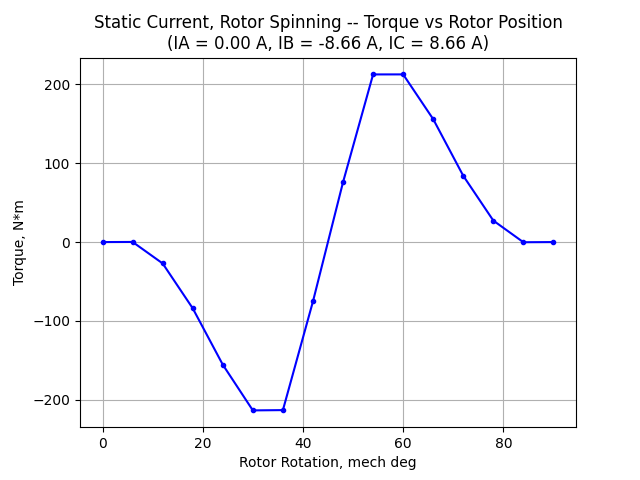
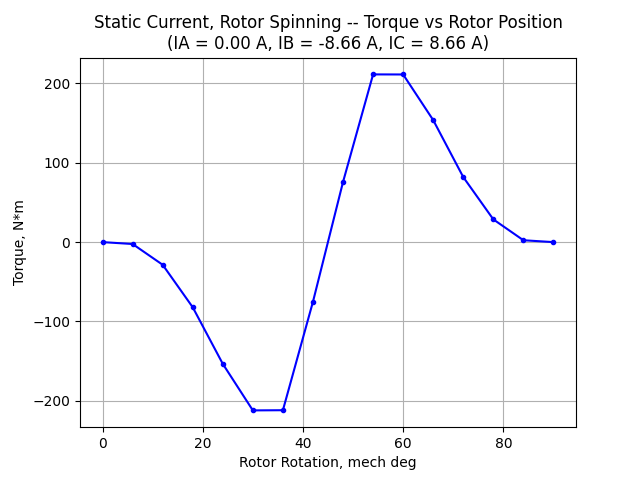
small change

diff --git a/config.py b/config.py
@@ -12,12 +12,12 @@ Length = 3.300
 # chosen size -- lets the airgap/magnet regions, which drive torque
 # accuracy, be resolved much finer than the bulk steel back-iron.
 # ---------------------------------------
-StatorSteelMeshSize = 0.5   # was 0.05; tooth/yoke back-iron -- coarse, low field gradient
-RotorSteelMeshSize = 0.5   # was 0.05; rotor lamination -- coarse, low field gradient
-AirgapMeshSize = 0.5   # was 0.0025; airgap ring -- fine, resolves torque-critical field
-MagnetMeshSize = 0.5   # was 0.01; magnet body -- fine
-MagnetAirMeshSize = 0.5   # was 0.005; end-cap (outer) air pockets inside each pole leg -- fine
-DuctMeshSize = 0.5   # was 0.05; duct/flux-barrier air pocket inside each pole leg -- coarse
+StatorSteelMeshSize = 0.05   # tooth/yoke back-iron -- coarse, low field gradient
+RotorSteelMeshSize = 0.05   # rotor lamination -- coarse, low field gradient
+AirgapMeshSize = 0.0025   # airgap ring -- fine, resolves torque-critical field
+MagnetMeshSize = 0.01   # magnet body -- fine
+MagnetAirMeshSize = 0.005   # end-cap (outer) air pockets inside each pole leg -- fine
+DuctMeshSize = 0.05   # duct/flux-barrier air pocket inside each pole leg -- coarse
 
 # ---------------------------------------
 # Stator Geometry
@@ -78,15 +78,15 @@ DuctMaxDia = RotorOD - 2 * Bridge
 # used by cogging_torque.py; every other script keeps the single-region
 # defaults above.
 # ---------------------------------------
-SlotAirMeshSize = 0.5   # was 0.08; in, unwound slot body -- very coarse
+SlotAirMeshSize = 0.08   # in, unwound slot body -- very coarse
 
 # Radius separating the dense stator teeth from the coarse back-iron yoke.
 # Must clear the tooth-bottom fillet, which bulges out to ~4.51 in with the
 # geometry above (StatorID=6.375, ShoeHeight/ShoeRadius/SlotHeight as set),
 # and stay under StatorOD/2=5.3 in.
 ToothSplitRadius = 4.55
-ToothMeshSize = 0.5   # was 0.03; in, tooth body (shoe band -> ToothSplitRadius) -- medium
-YokeMeshSize = 0.5   # was 0.1; in, back-iron yoke -- very coarse
+ToothMeshSize = 0.03   # in, tooth body (shoe band -> ToothSplitRadius) -- medium
+YokeMeshSize = 0.1   # in, back-iron yoke -- very coarse
 
 # Radius separating the thin, torque-critical tooth-shoe band facing the
 # airgap from the rest of the tooth body -- just past the shoe, where the
@@ -95,7 +95,7 @@ YokeMeshSize = 0.5   # was 0.1; in, back-iron yoke -- very coarse
 # keeps the arc clear of those nodes so the mesh doesn't form slivers.
 ShoeSplitMargin = 0.05       # in, beyond the shoe corner radius
 ShoeSplitRadius = StatorID / 2 + ShoeHeight + ShoeRadius + ShoeSplitMargin
-ShoeMeshSize = 0.5   # was 0.0025; in, tooth-shoe band -- very dense (matches airgap)
+ShoeMeshSize = 0.0025   # in, tooth-shoe band -- very dense (matches airgap)
 
 # Radius (full 0-to-SectorAngle arc) separating the dense rotor-edge band
 # facing the stator from the coarse bulk rotor steel -- set to the
@@ -104,15 +104,15 @@ ShoeMeshSize = 0.5   # was 0.0025; in, tooth-shoe band -- very dense (matches ai
 # pockets, which stay just inside DuctMaxDia/2 (~3.10 in, vs. RotorOD/2's
 # 3.157 in) by design.
 RotorEdgeRadius = DuctMaxDia / 2
-RotorEdgeMeshSize = 0.5   # was 0.0025; in, rotor-edge band (second layer, below the skin) -- dense
-RotorBulkMeshSize = 0.5   # was 0.1; in, rotor steel below RotorInnerRadius -- very coarse
+RotorEdgeMeshSize = 0.0025   # in, rotor-edge band (second layer, below the skin) -- dense
+RotorBulkMeshSize = 0.1   # in, rotor steel below RotorInnerRadius -- very coarse
 
 # Radius of an inner rotor arc, just inside the deepest magnet-pocket point
 # (~2.521 in, the magnet's inner corner) so it crosses no pocket. The layer
 # between it and RotorEdgeRadius -- the steel around the magnets -- gets a
 # fine mesh; only the steel below it stays at RotorBulkMeshSize.
 RotorInnerRadius = 2.50
-RotorMidMeshSize = 0.5   # was 0.01; in, rotor steel around the magnets -- fine
+RotorMidMeshSize = 0.01   # in, rotor steel around the magnets -- fine
 
 # Radius of a second, outer rotor arc splitting the edge band again: the
 # thin skin between it and RotorOD (the surface directly facing the airgap)
@@ -120,7 +120,7 @@ RotorMidMeshSize = 0.5   # was 0.01; in, rotor steel around the magnets -- fine
 # and RotorOD/2 (3.157 in).
 RotorSkinThick = 0.02        # in, skin thickness below RotorOD
 RotorSkinRadius = RotorOD / 2 - RotorSkinThick
-RotorSkinMeshSize = 0.5   # was 0.0025; in, rotor outer skin -- very dense (matches airgap)
+RotorSkinMeshSize = 0.0025   # in, rotor outer skin -- very dense (matches airgap)
 
 PolePitch = 360 / Npoles        # 45 deg, rotor pole pitch
 PoleHalfAngle = PolePitch / 2   # 22.5 deg
@@ -163,7 +163,7 @@ NPoleSlotLCM = Nslots * Npoles // math.gcd(Nslots, Npoles)
 CoggingPeriodAngle = 360 / NPoleSlotLCM   # 7.5 deg here
 
 # Angular resolution of the sweep: how many solve steps cover one period.
-CoggingStepsPerPeriod = 30
+CoggingStepsPerPeriod = 60
 CoggingStepAngle = CoggingPeriodAngle / CoggingStepsPerPeriod
 
 # Total mechanical angle to sweep.
@@ -172,13 +172,20 @@ CoggingNumPeriods = CoggingSweepAngle / CoggingPeriodAngle
 CoggingNumSteps = int(round(CoggingNumPeriods * CoggingStepsPerPeriod))
 
 # ---------------------------------------
+# Lamination stacking factor for the M19_29G steel. Applied to the solid-
+# material B-H curve in simulation.setup_materials() (flux parallel to the
+# laminations); FEMM's own LamFill is then set to 1 so it isn't applied twice.
+# ---------------------------------------
+StackingFactor = 0.94
+
+# ---------------------------------------
 # Windings / circuits (reference.txt's '19 AWG'/A-B-C setup, adapted to the
 # one-pole sector: SectorSlots consecutive slots instead of all Nslots).
 # ---------------------------------------
 WireDiameter = 0.912        # mm -- mi_addmaterial's WireD is always mm,
                              # regardless of the document's own length units
 WireConductivity = 58       # MS/m, copper (reference.txt's '19 AWG' Cduct)
-WindingMeshSize = 0.5   # was 0.020; in, per-block mesh size for the coil labels
+WindingMeshSize = 0.020   # in, per-block mesh size for the coil labels
 
 Current = 10                # A, phase current amplitude
 Turns = 117                 # turns per coil side

diff --git a/simulation.py b/simulation.py
@@ -541,7 +541,10 @@ def setup_materials():
 
     femm.mi_addmaterial("N36Z_20", 1.03, 1.03, 920000, 0, 0.667)
 
-    femm.mi_addmaterial("M19_29G", 0, 0, 0, 0, 1.9, 0.34, 0, 0.94, 0)
+    # LamFill = 1: the stacking factor is applied to the B-H points below
+    # instead, so FEMM must not apply it a second time.
+    femm.mi_addmaterial("M19_29G", 0, 0, 0, 0, 1.9, 0.34, 0, 1, 0)
+    # Solid-material B-H curve (T, A/m).
     b_points = [
         0, 0.05, 0.1, 0.15, 0.36, 0.54, 0.65, 0.99, 1.2, 1.28, 1.33, 1.36,
         1.44, 1.52, 1.58, 1.63, 1.67, 1.8, 1.9, 2, 2.1, 2.3, 2.5,
@@ -553,7 +556,17 @@ def setup_materials():
         111407, 190984, 350135, 509252, 560177.2, 1527756,
     ]
     for b, h in zip(b_points, h_points):
-        femm.mi_addbhpoint("M19_29G", b, h)
+        femm.mi_addbhpoint("M19_29G", laminated_b(b, h), h)
+
+
+def laminated_b(b_solid, h_solid, sf=None):
+    """Effective flux density of a lamination stack with flux parallel to
+    the laminations: Bparallel = SF*Bsolid + (1 - SF)*mu0*Hsolid. H is the
+    same in the iron and the gaps between laminations, so it is unchanged."""
+    if sf is None:
+        sf = config.StackingFactor
+    mu0 = 4 * math.pi * 1e-7
+    return sf * b_solid + (1 - sf) * mu0 * h_solid
 
 
 def assign_block_labels(split_stator=False, split_rotor=False):
@@ -793,6 +806,13 @@ def setup_boundary_conditions(split_stator_radius=None, split_rotor_radius=None)
     # Outer Dirichlet A=0 -- true exterior of the modeled domain.
     femm.mi_addboundprop("A=0", 0, 0, 0, 0, 0, 0, 0, 0, 0, 0, 0)
     femm.mi_selectarcsegment(c.StatorOD / 2 * cosd(mid), c.StatorOD / 2 * sind(mid))
+    femm.mi_setarcsegmentprop(1, "A=0", 0, 0)
+    femm.mi_clearselected()
+
+    # Inner Dirichlet A=0 on the rotor bore, as in the reference script: no
+    # flux crosses into the (unmodeled) shaft. Left unset, FEMM's default
+    # Neumann condition would let flux lines leave the bore at right angles.
+    femm.mi_selectarcsegment(c.RotorID / 2 * cosd(mid), c.RotorID / 2 * sind(mid))
     femm.mi_setarcsegmentprop(1, "A=0", 0, 0)
     femm.mi_clearselected()
 
